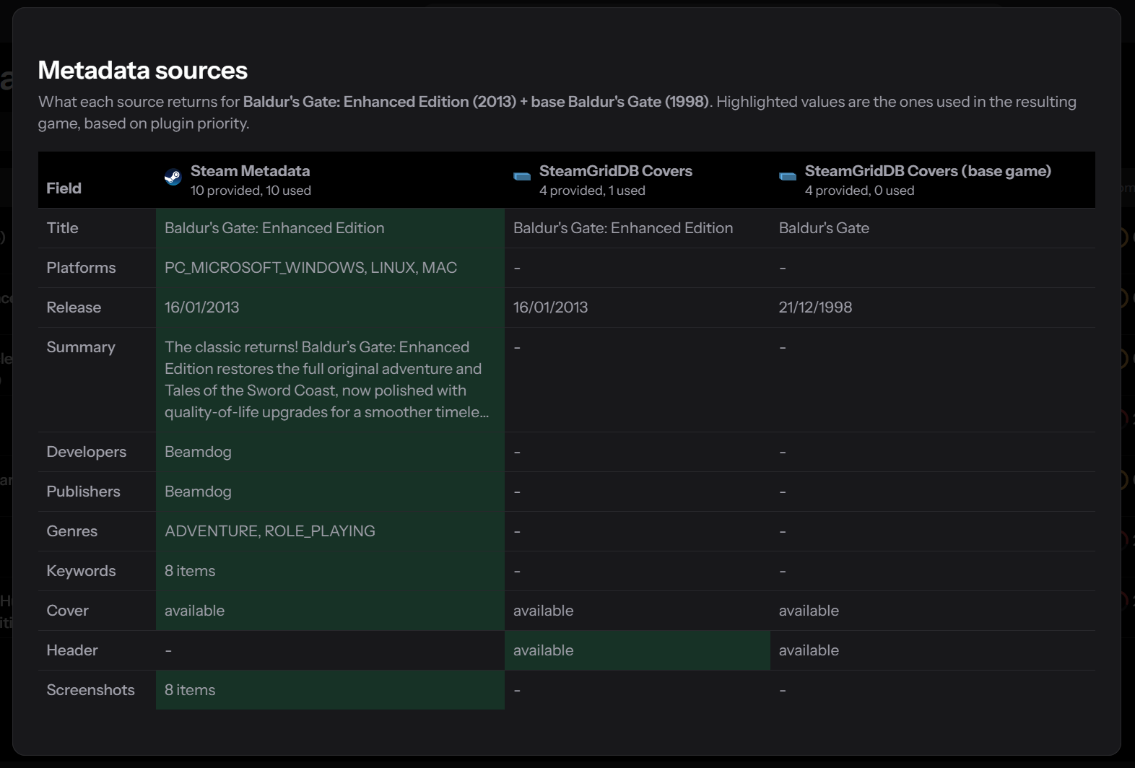
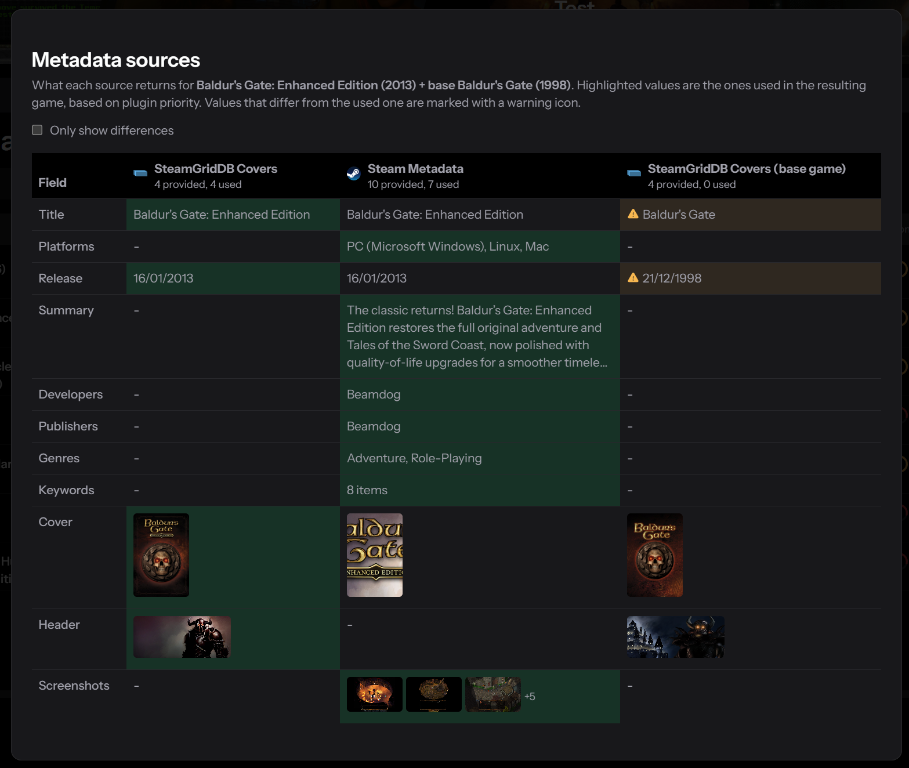
Update metadata inspection screenshots and README

diff --git a/README.md b/README.md
@@ -101,13 +101,30 @@ Fields you edited yourself are not counted for any plugin.
 
 #### Screenshots
 
-Two results combined. Steam provides most fields, SteamGridDB only wins the header image because Steam has none.
+Open the inspector with the magnifier-list icon on a search result. The value used in the game is highlighted in green.
+Here SteamGridDB wins the title, release, cover and header, while Steam supplies the rest.
 
-![Inspecting two combined results](assets/screenshots/inspect-metadata-sources/combined-results.png)
+![Inspecting a search result](assets/screenshots/inspect-metadata-sources/overview.png)
 
-An edition with a base game. The base game's source (here 0 used) only fills fields the edition leaves empty.
+Hover a thumbnail for a bigger preview.
+
+![Thumbnail preview](assets/screenshots/inspect-metadata-sources/thumbnail-preview.png)
+
+**Only show differences** hides the rows where the sources agree. Images always count as different, as their URLs
+differ by nature.
+
+![Only show differences](assets/screenshots/inspect-metadata-sources/only-differences.png)
+
+An edition with a base game. The base game's source (here 0 used) only fills fields the edition leaves empty. Values
+that differ from the used one, such as the base game's title and release year, are marked with a warning icon.
 
 ![Inspecting an edition with a base game](assets/screenshots/inspect-metadata-sources/edition-with-base-game.png)
+
+The plugin details show how many fields of your library each metadata plugin currently supplies.
+
+![SteamGridDB usage](assets/screenshots/inspect-metadata-sources/plugin-usage-steamgriddb.png)
+
+![Steam usage](assets/screenshots/inspect-metadata-sources/plugin-usage-steam.png)
 
 ### Editions, versions, and included DLC
 
